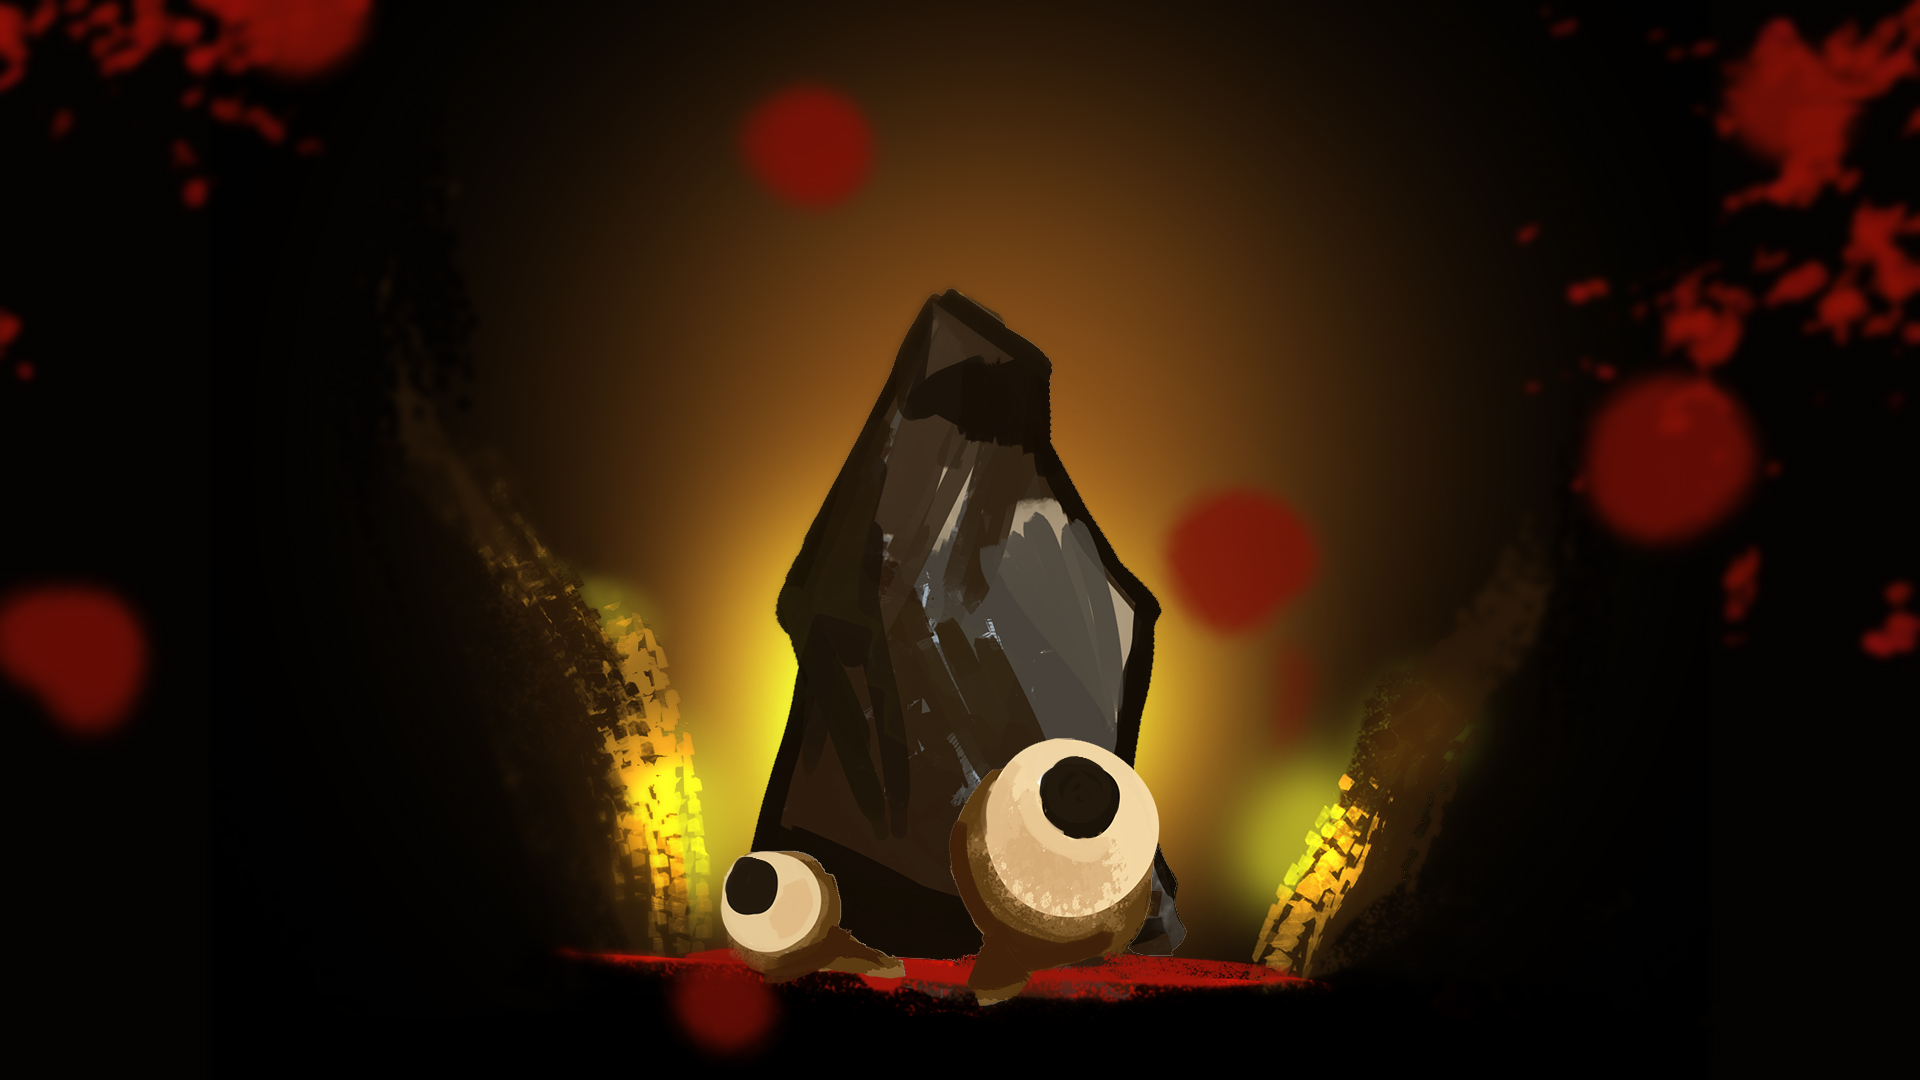
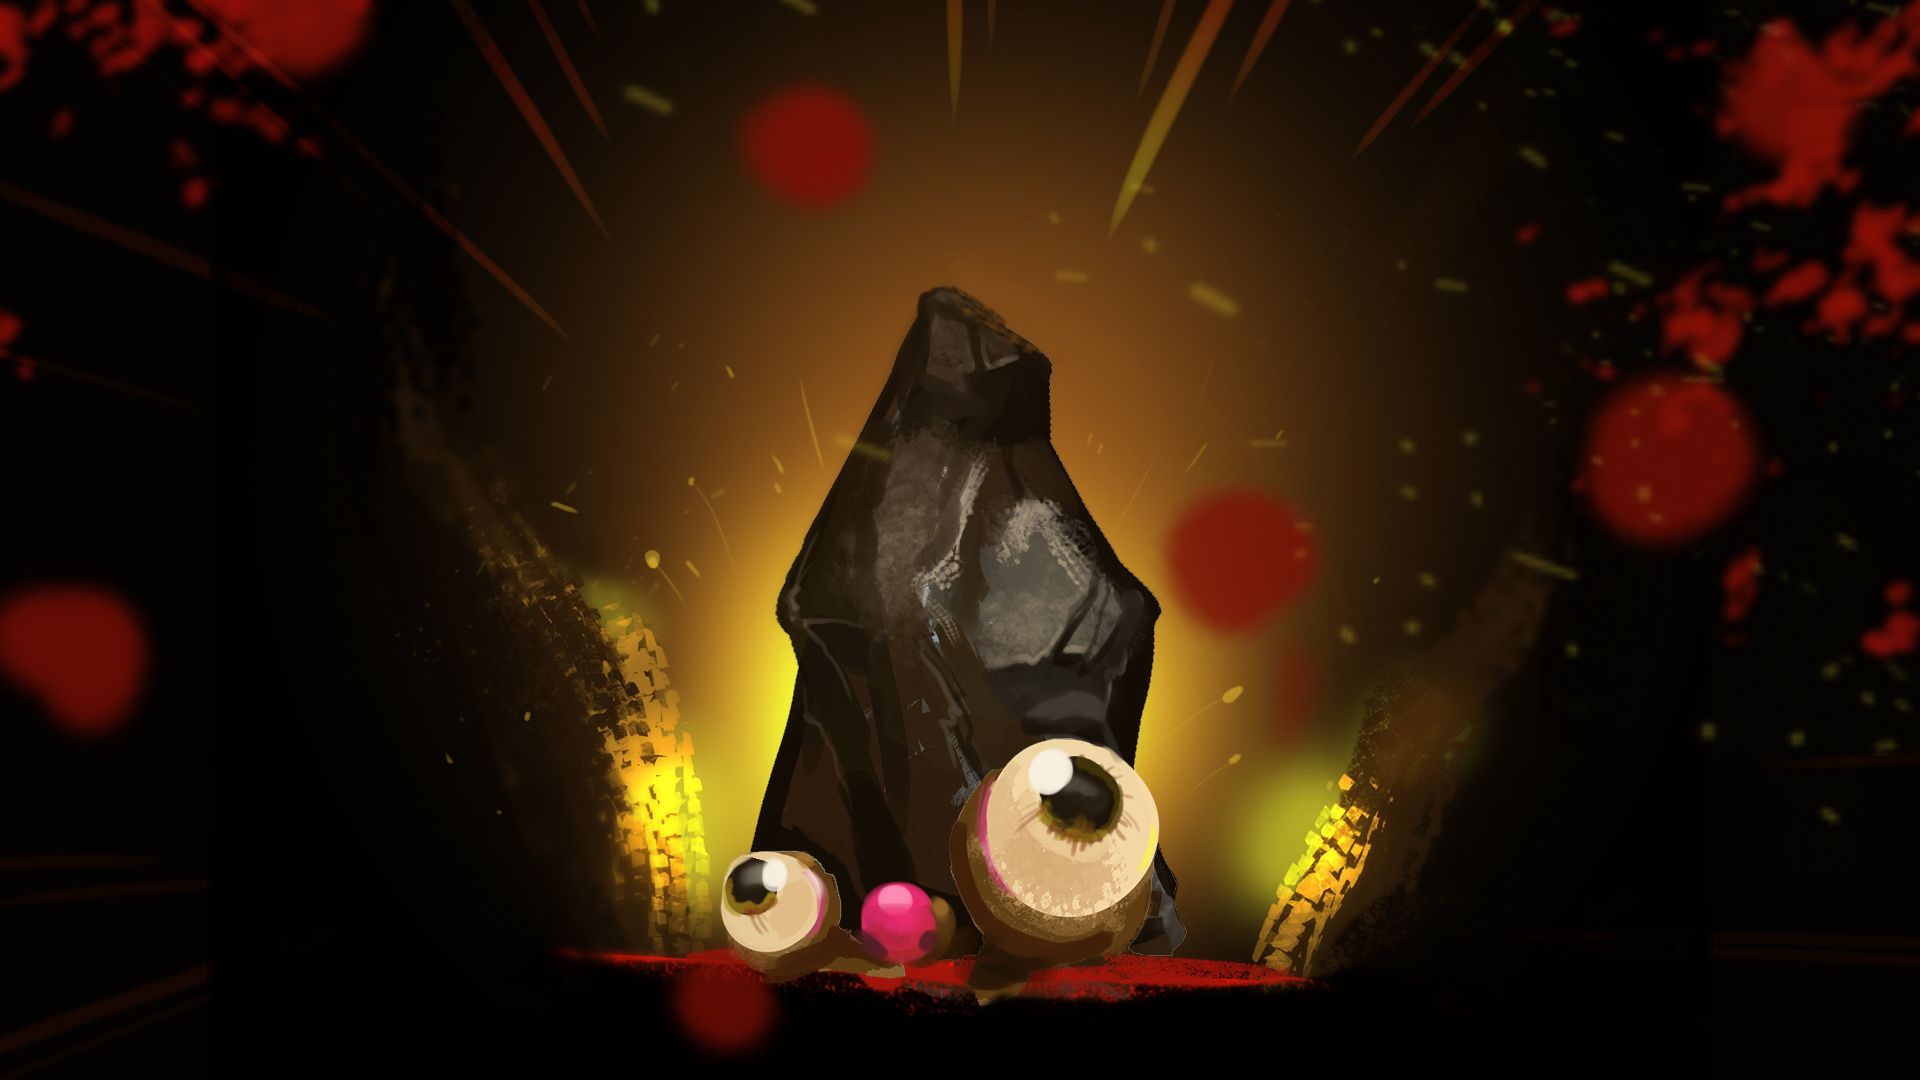
golem gif, uppercase

diff --git a/src/less/game.less b/src/less/game.less
@@ -57,7 +57,6 @@
   font-size: 14px;
   background-size: contain;
   background-color: transparent;
-  text-transform: uppercase;
   border:none;
   box-shadow: none;
   outline: none;
@@ -104,6 +103,7 @@
   background-size: contain;
   background-repeat: no-repeat;
   background-position: top, center;
+  font-size: 2.5vw;
 }
 
 #golem-main {

diff --git a/src/less/lobby.less b/src/less/lobby.less
@@ -17,14 +17,12 @@ fieldset#lobby-player-list {
     padding: 0 30px;
     text-align: center;
     font-size: 1.4em;
-    text-transform: uppercase;
     font-weight: 700;
   }
 
   .player-list-item {
     cursor: pointer;
     text-align: center;
-    text-transform: uppercase;
 
     &:hover {
       text-shadow: 1px 1px 5px @highlight;

diff --git a/src/less/start.less b/src/less/start.less
@@ -11,7 +11,6 @@
   font-size: 3em;
   color: @highlight;
   margin-top: 50px;
-  text-transform: uppercase;
 }
 
 #input-username {
@@ -24,7 +23,6 @@
   font-family: @font-family;
   font-size: 1.6em;
   color: @primary;
-  text-transform: uppercase;
   width: 100%;
   display: block;
   margin: auto;

diff --git a/src/client/parts/golemPresenter.js b/src/client/parts/golemPresenter.js
@@ -9,7 +9,7 @@ IggjGolemPresenter = function (eventHandler) {
         'src/img/golem/2.png',
         'src/img/golem/3.png',
         'src/img/golem/4.png',
-        'src/img/golem/5.png',
+        'src/img/golem/5_anim.gif',
         'src/img/golem/6.png'
     ];
 

diff --git a/src/less/main.less b/src/less/main.less
@@ -7,6 +7,7 @@ body,
 #main-stage {
   position: relative;
   font-family: @font-family;
+  text-transform: uppercase;
   padding: 0;
   margin: 0;
   width: 100%;
